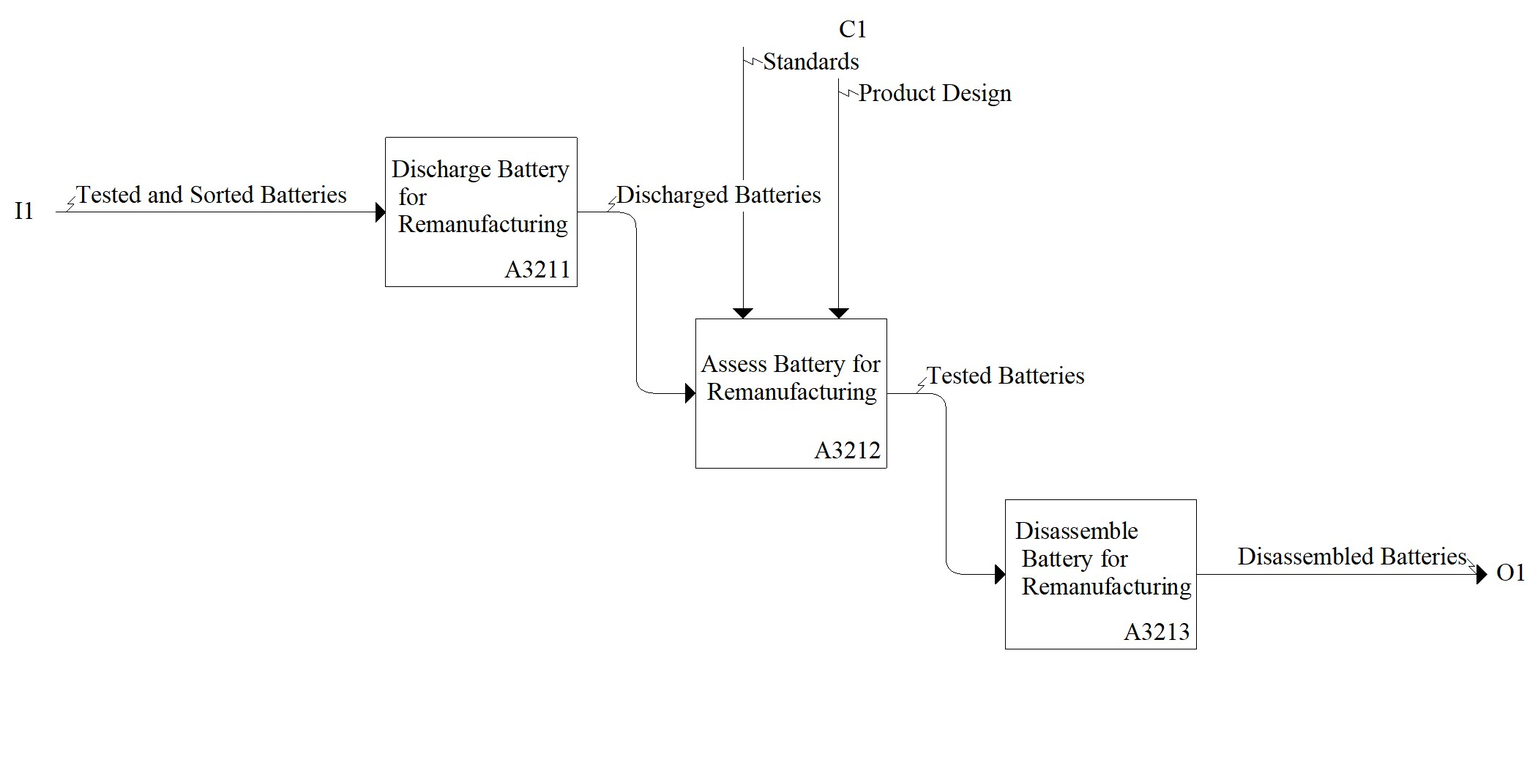
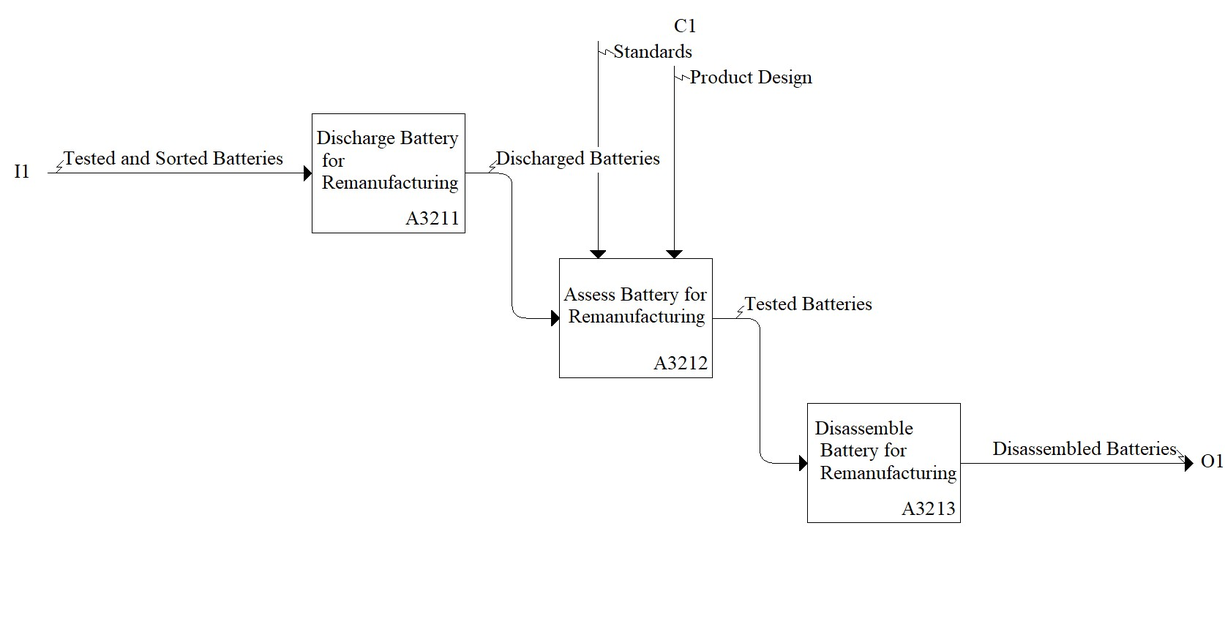
Image update

diff --git a/evb/evb/dgmA323COLON_Install_Battery718.html b/evb/evb/dgmA323COLON_Install_Battery718.html
@@ -23,21 +23,21 @@ layout: default
  <img alt="" border="0" src="images/dgm718.jpeg" usemap="#sitemap"/>
 </div>
 <map name="sitemap">
- <area alt="Click Activity Box for Description" coords="448, 224, 657, 387" href="actuseJoin%5Fto%5FFrame738.html" shape="rect"/>
- <area alt="Click Shadow for Decomp Diagram " coords="657, 231, 668, 394" href="dgmTreat%5FEV%5FBatteries%5Fat%5FEnd%2Dof%2DLife23.html" shape="rect"/>
- <area alt="Click Shadow for Decomp Diagram " coords="455, 387, 664, 398" href="dgmTreat%5FEV%5FBatteries%5Fat%5FEnd%2Dof%2DLife23.html" shape="rect"/>
- <area alt="Click Activity Box for Description" coords="814, 429, 1024, 599" href="actuseConnect%5Fto%5FSoftware%5FInterface742.html" shape="rect"/>
- <area alt="Click Shadow for Decomp Diagram " coords="1024, 436, 1035, 606" href="dgmTreat%5FEV%5FBatteries%5Fat%5FEnd%2Dof%2DLife23.html" shape="rect"/>
- <area alt="Click Shadow for Decomp Diagram " coords="821, 599, 1031, 610" href="dgmTreat%5FEV%5FBatteries%5Fat%5FEnd%2Dof%2DLife23.html" shape="rect"/>
- <area alt="Click Activity Box for Description" coords="1181, 641, 1413, 821" href="actuseRecondition%5FBattery%5FDuring%5FInstallation746.html" shape="rect"/>
- <area alt="Click Shadow for Decomp Diagram " coords="1413, 648, 1424, 828" href="dgmTreat%5FEV%5FBatteries%5Fat%5FEnd%2Dof%2DLife23.html" shape="rect"/>
- <area alt="Click Shadow for Decomp Diagram " coords="1188, 821, 1420, 832" href="dgmTreat%5FEV%5FBatteries%5Fat%5FEnd%2Dof%2DLife23.html" shape="rect"/>
- <area alt="Click Activity Box for Description" coords="1570, 863, 1798, 1041" href="actuseReconfigure%5FBattery%5Ffor%5FEV%5FApplication750.html" shape="rect"/>
- <area alt="Click Shadow for Decomp Diagram " coords="1798, 870, 1809, 1048" href="dgmTreat%5FEV%5FBatteries%5Fat%5FEnd%2Dof%2DLife23.html" shape="rect"/>
- <area alt="Click Shadow for Decomp Diagram " coords="1577, 1041, 1805, 1052" href="dgmTreat%5FEV%5FBatteries%5Fat%5FEnd%2Dof%2DLife23.html" shape="rect"/>
- <area alt="Click Activity Box for Description" coords="1955, 1083, 2197, 1272" href="actuseTestSLASHCertify%5FRemanufactured%5FBattery754.html" shape="rect"/>
- <area alt="Click Shadow for Decomp Diagram " coords="2197, 1090, 2208, 1279" href="dgmTreat%5FEV%5FBatteries%5Fat%5FEnd%2Dof%2DLife23.html" shape="rect"/>
- <area alt="Click Shadow for Decomp Diagram " coords="1962, 1272, 2204, 1283" href="dgmTreat%5FEV%5FBatteries%5Fat%5FEnd%2Dof%2DLife23.html" shape="rect"/>
+ <area alt="Click Activity Box for Description" coords="374, 190, 547, 325" href="actuseJoin%5Fto%5FFrame738.html" shape="rect"/>
+ <area alt="Click Shadow for Decomp Diagram " coords="547, 197, 558, 332" href="dgmTreat%5FEV%5FBatteries%5Fat%5FEnd%2Dof%2DLife23.html" shape="rect"/>
+ <area alt="Click Shadow for Decomp Diagram " coords="381, 325, 554, 336" href="dgmTreat%5FEV%5FBatteries%5Fat%5FEnd%2Dof%2DLife23.html" shape="rect"/>
+ <area alt="Click Activity Box for Description" coords="677, 360, 850, 500" href="actuseConnect%5Fto%5FSoftware%5FInterface742.html" shape="rect"/>
+ <area alt="Click Shadow for Decomp Diagram " coords="850, 367, 861, 507" href="dgmTreat%5FEV%5FBatteries%5Fat%5FEnd%2Dof%2DLife23.html" shape="rect"/>
+ <area alt="Click Shadow for Decomp Diagram " coords="684, 500, 857, 511" href="dgmTreat%5FEV%5FBatteries%5Fat%5FEnd%2Dof%2DLife23.html" shape="rect"/>
+ <area alt="Click Activity Box for Description" coords="979, 535, 1171, 685" href="actuseRecondition%5FBattery%5FDuring%5FInstallation746.html" shape="rect"/>
+ <area alt="Click Shadow for Decomp Diagram " coords="1171, 542, 1182, 692" href="dgmTreat%5FEV%5FBatteries%5Fat%5FEnd%2Dof%2DLife23.html" shape="rect"/>
+ <area alt="Click Shadow for Decomp Diagram " coords="986, 685, 1178, 696" href="dgmTreat%5FEV%5FBatteries%5Fat%5FEnd%2Dof%2DLife23.html" shape="rect"/>
+ <area alt="Click Activity Box for Description" coords="1300, 720, 1489, 867" href="actuseReconfigure%5FBattery%5Ffor%5FEV%5FApplication750.html" shape="rect"/>
+ <area alt="Click Shadow for Decomp Diagram " coords="1489, 727, 1500, 874" href="dgmTreat%5FEV%5FBatteries%5Fat%5FEnd%2Dof%2DLife23.html" shape="rect"/>
+ <area alt="Click Shadow for Decomp Diagram " coords="1307, 867, 1496, 878" href="dgmTreat%5FEV%5FBatteries%5Fat%5FEnd%2Dof%2DLife23.html" shape="rect"/>
+ <area alt="Click Activity Box for Description" coords="1618, 902, 1818, 1058" href="actuseTestSLASHCertify%5FRemanufactured%5FBattery754.html" shape="rect"/>
+ <area alt="Click Shadow for Decomp Diagram " coords="1818, 909, 1829, 1065" href="dgmTreat%5FEV%5FBatteries%5Fat%5FEnd%2Dof%2DLife23.html" shape="rect"/>
+ <area alt="Click Shadow for Decomp Diagram " coords="1625, 1058, 1825, 1069" href="dgmTreat%5FEV%5FBatteries%5Fat%5FEnd%2Dof%2DLife23.html" shape="rect"/>
 </map>
 <br/>
 <p class="description-info" id="description">

diff --git a/evb/evb/dgmA3313COLON_MechanicallySLASHChemically_Pretreat_Material1016.html b/evb/evb/dgmA3313COLON_MechanicallySLASHChemically_Pretreat_Material1016.html
@@ -23,21 +23,21 @@ layout: default
  <img alt="" border="0" src="images/dgm1016.jpeg" usemap="#sitemap"/>
 </div>
 <map name="sitemap">
- <area alt="Click Activity Box for Description" coords="547, 230, 786, 537" href="actuseShred1048.html" shape="rect"/>
- <area alt="Click Shadow for Decomp Diagram " coords="786, 237, 797, 544" href="dgmTreat%5FEV%5FBatteries%5Fat%5FEnd%2Dof%2DLife23.html" shape="rect"/>
- <area alt="Click Shadow for Decomp Diagram " coords="554, 537, 793, 548" href="dgmTreat%5FEV%5FBatteries%5Fat%5FEnd%2Dof%2DLife23.html" shape="rect"/>
- <area alt="Click Activity Box for Description" coords="948, 580, 1164, 749" href="actuseCalcine1052.html" shape="rect"/>
- <area alt="Click Shadow for Decomp Diagram " coords="1164, 587, 1175, 756" href="dgmTreat%5FEV%5FBatteries%5Fat%5FEnd%2Dof%2DLife23.html" shape="rect"/>
- <area alt="Click Shadow for Decomp Diagram " coords="955, 749, 1171, 760" href="dgmTreat%5FEV%5FBatteries%5Fat%5FEnd%2Dof%2DLife23.html" shape="rect"/>
- <area alt="Click Activity Box for Description" coords="1326, 793, 1542, 961" href="actuseCrushSLASHSize%5FReduce1057.html" shape="rect"/>
- <area alt="Click Shadow for Decomp Diagram " coords="1542, 800, 1553, 968" href="dgmTreat%5FEV%5FBatteries%5Fat%5FEnd%2Dof%2DLife23.html" shape="rect"/>
- <area alt="Click Shadow for Decomp Diagram " coords="1333, 961, 1549, 972" href="dgmTreat%5FEV%5FBatteries%5Fat%5FEnd%2Dof%2DLife23.html" shape="rect"/>
- <area alt="Click Activity Box for Description" coords="1704, 1005, 1920, 1173" href="actuseSeparate1061.html" shape="rect"/>
- <area alt="Click Shadow for Decomp Diagram " coords="1920, 1012, 1931, 1180" href="dgmTreat%5FEV%5FBatteries%5Fat%5FEnd%2Dof%2DLife23.html" shape="rect"/>
- <area alt="Click Shadow for Decomp Diagram " coords="1711, 1173, 1927, 1184" href="dgmTreat%5FEV%5FBatteries%5Fat%5FEnd%2Dof%2DLife23.html" shape="rect"/>
- <area alt="Click Activity Box for Description" coords="2082, 1217, 2298, 1392" href="actuseTreat%5FGas%5Ffor%5FMechanical%5FPretreat1065.html" shape="rect"/>
- <area alt="Click Shadow for Decomp Diagram " coords="2298, 1224, 2309, 1399" href="dgmTreat%5FEV%5FBatteries%5Fat%5FEnd%2Dof%2DLife23.html" shape="rect"/>
- <area alt="Click Shadow for Decomp Diagram " coords="2089, 1392, 2305, 1403" href="dgmTreat%5FEV%5FBatteries%5Fat%5FEnd%2Dof%2DLife23.html" shape="rect"/>
+ <area alt="Click Activity Box for Description" coords="442, 189, 634, 437" href="actuseShred1048.html" shape="rect"/>
+ <area alt="Click Shadow for Decomp Diagram " coords="634, 196, 645, 444" href="dgmTreat%5FEV%5FBatteries%5Fat%5FEnd%2Dof%2DLife23.html" shape="rect"/>
+ <area alt="Click Shadow for Decomp Diagram " coords="449, 437, 641, 448" href="dgmTreat%5FEV%5FBatteries%5Fat%5FEnd%2Dof%2DLife23.html" shape="rect"/>
+ <area alt="Click Activity Box for Description" coords="764, 471, 936, 606" href="actuseCalcine1052.html" shape="rect"/>
+ <area alt="Click Shadow for Decomp Diagram " coords="936, 478, 947, 613" href="dgmTreat%5FEV%5FBatteries%5Fat%5FEnd%2Dof%2DLife23.html" shape="rect"/>
+ <area alt="Click Shadow for Decomp Diagram " coords="771, 606, 943, 617" href="dgmTreat%5FEV%5FBatteries%5Fat%5FEnd%2Dof%2DLife23.html" shape="rect"/>
+ <area alt="Click Activity Box for Description" coords="1066, 641, 1239, 776" href="actuseCrushSLASHSize%5FReduce1057.html" shape="rect"/>
+ <area alt="Click Shadow for Decomp Diagram " coords="1239, 648, 1250, 783" href="dgmTreat%5FEV%5FBatteries%5Fat%5FEnd%2Dof%2DLife23.html" shape="rect"/>
+ <area alt="Click Shadow for Decomp Diagram " coords="1073, 776, 1246, 787" href="dgmTreat%5FEV%5FBatteries%5Fat%5FEnd%2Dof%2DLife23.html" shape="rect"/>
+ <area alt="Click Activity Box for Description" coords="1368, 811, 1541, 946" href="actuseSeparate1061.html" shape="rect"/>
+ <area alt="Click Shadow for Decomp Diagram " coords="1541, 818, 1552, 953" href="dgmTreat%5FEV%5FBatteries%5Fat%5FEnd%2Dof%2DLife23.html" shape="rect"/>
+ <area alt="Click Shadow for Decomp Diagram " coords="1375, 946, 1548, 957" href="dgmTreat%5FEV%5FBatteries%5Fat%5FEnd%2Dof%2DLife23.html" shape="rect"/>
+ <area alt="Click Activity Box for Description" coords="1671, 981, 1844, 1122" href="actuseTreat%5FGas%5Ffor%5FMechanical%5FPretreat1065.html" shape="rect"/>
+ <area alt="Click Shadow for Decomp Diagram " coords="1844, 988, 1855, 1129" href="dgmTreat%5FEV%5FBatteries%5Fat%5FEnd%2Dof%2DLife23.html" shape="rect"/>
+ <area alt="Click Shadow for Decomp Diagram " coords="1678, 1122, 1851, 1133" href="dgmTreat%5FEV%5FBatteries%5Fat%5FEnd%2Dof%2DLife23.html" shape="rect"/>
 </map>
 <br/>
 <p class="description-info" id="description">

diff --git a/evb/evb/dgmA313COLON_Repair_Battery1309.html b/evb/evb/dgmA313COLON_Repair_Battery1309.html
@@ -23,18 +23,18 @@ layout: default
  <img alt="" border="0" src="images/dgm1309.jpeg" usemap="#sitemap"/>
 </div>
 <map name="sitemap">
- <area alt="Click Activity Box for Description" coords="585, 230, 801, 406" href="actuseDisassemble%5FBattery%5Ffor%5FRepurposing1311.html" shape="rect"/>
- <area alt="Click Shadow for Decomp Diagram " coords="801, 237, 812, 413" href="dgmTreat%5FEV%5FBatteries%5Fat%5FEnd%2Dof%2DLife23.html" shape="rect"/>
- <area alt="Click Shadow for Decomp Diagram " coords="592, 406, 808, 417" href="dgmTreat%5FEV%5FBatteries%5Fat%5FEnd%2Dof%2DLife23.html" shape="rect"/>
- <area alt="Click Activity Box for Description" coords="963, 449, 1209, 700" href="actuseReplace%5For%5FRepair%5FDamaged%5FComponents%5Ffor%5FRepurposing1315.html" shape="rect"/>
- <area alt="Click Shadow for Decomp Diagram " coords="1209, 456, 1220, 707" href="dgmTreat%5FEV%5FBatteries%5Fat%5FEnd%2Dof%2DLife23.html" shape="rect"/>
- <area alt="Click Shadow for Decomp Diagram " coords="970, 700, 1216, 711" href="dgmTreat%5FEV%5FBatteries%5Fat%5FEnd%2Dof%2DLife23.html" shape="rect"/>
- <area alt="Click Activity Box for Description" coords="1371, 743, 1587, 918" href="actuseRecondition%5FBattery%5Ffor%5FRepurposing1319.html" shape="rect"/>
- <area alt="Click Shadow for Decomp Diagram " coords="1587, 750, 1598, 925" href="dgmTreat%5FEV%5FBatteries%5Fat%5FEnd%2Dof%2DLife23.html" shape="rect"/>
- <area alt="Click Shadow for Decomp Diagram " coords="1378, 918, 1594, 929" href="dgmTreat%5FEV%5FBatteries%5Fat%5FEnd%2Dof%2DLife23.html" shape="rect"/>
- <area alt="Click Activity Box for Description" coords="1749, 961, 1965, 1137" href="actuseReassemble%5FBattery%5Ffor%5FRepurposing1323.html" shape="rect"/>
- <area alt="Click Shadow for Decomp Diagram " coords="1965, 968, 1976, 1144" href="dgmTreat%5FEV%5FBatteries%5Fat%5FEnd%2Dof%2DLife23.html" shape="rect"/>
- <area alt="Click Shadow for Decomp Diagram " coords="1756, 1137, 1972, 1148" href="dgmTreat%5FEV%5FBatteries%5Fat%5FEnd%2Dof%2DLife23.html" shape="rect"/>
+ <area alt="Click Activity Box for Description" coords="473, 189, 646, 330" href="actuseDisassemble%5FBattery%5Ffor%5FRepurposing1311.html" shape="rect"/>
+ <area alt="Click Shadow for Decomp Diagram " coords="646, 196, 657, 337" href="dgmTreat%5FEV%5FBatteries%5Fat%5FEnd%2Dof%2DLife23.html" shape="rect"/>
+ <area alt="Click Shadow for Decomp Diagram " coords="480, 330, 653, 341" href="dgmTreat%5FEV%5FBatteries%5Fat%5FEnd%2Dof%2DLife23.html" shape="rect"/>
+ <area alt="Click Activity Box for Description" coords="776, 365, 972, 567" href="actuseReplace%5For%5FRepair%5FDamaged%5FComponents%5Ffor%5FRepurposing1315.html" shape="rect"/>
+ <area alt="Click Shadow for Decomp Diagram " coords="972, 372, 983, 574" href="dgmTreat%5FEV%5FBatteries%5Fat%5FEnd%2Dof%2DLife23.html" shape="rect"/>
+ <area alt="Click Shadow for Decomp Diagram " coords="783, 567, 979, 578" href="dgmTreat%5FEV%5FBatteries%5Fat%5FEnd%2Dof%2DLife23.html" shape="rect"/>
+ <area alt="Click Activity Box for Description" coords="1101, 602, 1274, 742" href="actuseRecondition%5FBattery%5Ffor%5FRepurposing1319.html" shape="rect"/>
+ <area alt="Click Shadow for Decomp Diagram " coords="1274, 609, 1285, 749" href="dgmTreat%5FEV%5FBatteries%5Fat%5FEnd%2Dof%2DLife23.html" shape="rect"/>
+ <area alt="Click Shadow for Decomp Diagram " coords="1108, 742, 1281, 753" href="dgmTreat%5FEV%5FBatteries%5Fat%5FEnd%2Dof%2DLife23.html" shape="rect"/>
+ <area alt="Click Activity Box for Description" coords="1404, 777, 1577, 918" href="actuseReassemble%5FBattery%5Ffor%5FRepurposing1323.html" shape="rect"/>
+ <area alt="Click Shadow for Decomp Diagram " coords="1577, 784, 1588, 925" href="dgmTreat%5FEV%5FBatteries%5Fat%5FEnd%2Dof%2DLife23.html" shape="rect"/>
+ <area alt="Click Shadow for Decomp Diagram " coords="1411, 918, 1584, 929" href="dgmTreat%5FEV%5FBatteries%5Fat%5FEnd%2Dof%2DLife23.html" shape="rect"/>
 </map>
 <br/>
 <p class="description-info" id="description">

diff --git a/evb/evb/dgmA322COLON_Remanufacture_Battery265.html b/evb/evb/dgmA322COLON_Remanufacture_Battery265.html
@@ -23,18 +23,18 @@ layout: default
  <img alt="" border="0" src="images/dgm265.jpeg" usemap="#sitemap"/>
 </div>
 <map name="sitemap">
- <area alt="Click Activity Box for Description" coords="749, 230, 1010, 444" href="actuseReplace%5For%5FRepair%5FDamaged%5FComponents%5Ffor%5FRemanufacturing282.html" shape="rect"/>
- <area alt="Click Shadow for Decomp Diagram " coords="1010, 237, 1021, 451" href="dgmTreat%5FEV%5FBatteries%5Fat%5FEnd%2Dof%2DLife23.html" shape="rect"/>
- <area alt="Click Shadow for Decomp Diagram " coords="756, 444, 1017, 455" href="dgmTreat%5FEV%5FBatteries%5Fat%5FEnd%2Dof%2DLife23.html" shape="rect"/>
- <area alt="Click Activity Box for Description" coords="1172, 487, 1433, 691" href="actuseRecondition%5FBattery%5Ffor%5FRemanufacturing286.html" shape="rect"/>
- <area alt="Click Shadow for Decomp Diagram " coords="1433, 494, 1444, 698" href="dgmTreat%5FEV%5FBatteries%5Fat%5FEnd%2Dof%2DLife23.html" shape="rect"/>
- <area alt="Click Shadow for Decomp Diagram " coords="1179, 691, 1440, 702" href="dgmTreat%5FEV%5FBatteries%5Fat%5FEnd%2Dof%2DLife23.html" shape="rect"/>
- <area alt="Click Activity Box for Description" coords="1595, 734, 1811, 903" href="actuseTest%5Ffor%5FFunctionality705.html" shape="rect"/>
- <area alt="Click Shadow for Decomp Diagram " coords="1811, 741, 1822, 910" href="dgmTreat%5FEV%5FBatteries%5Fat%5FEnd%2Dof%2DLife23.html" shape="rect"/>
- <area alt="Click Shadow for Decomp Diagram " coords="1602, 903, 1818, 914" href="dgmTreat%5FEV%5FBatteries%5Fat%5FEnd%2Dof%2DLife23.html" shape="rect"/>
- <area alt="Click Activity Box for Description" coords="2027, 990, 2261, 1173" href="actuseReassemble%5FBattery%5FSystem715.html" shape="rect"/>
- <area alt="Click Shadow for Decomp Diagram " coords="2261, 997, 2272, 1180" href="dgmTreat%5FEV%5FBatteries%5Fat%5FEnd%2Dof%2DLife23.html" shape="rect"/>
- <area alt="Click Shadow for Decomp Diagram " coords="2034, 1173, 2268, 1184" href="dgmTreat%5FEV%5FBatteries%5Fat%5FEnd%2Dof%2DLife23.html" shape="rect"/>
+ <area alt="Click Activity Box for Description" coords="604, 189, 813, 361" href="actuseReplace%5For%5FRepair%5FDamaged%5FComponents%5Ffor%5FRemanufacturing282.html" shape="rect"/>
+ <area alt="Click Shadow for Decomp Diagram " coords="813, 196, 824, 368" href="dgmTreat%5FEV%5FBatteries%5Fat%5FEnd%2Dof%2DLife23.html" shape="rect"/>
+ <area alt="Click Shadow for Decomp Diagram " coords="611, 361, 820, 372" href="dgmTreat%5FEV%5FBatteries%5Fat%5FEnd%2Dof%2DLife23.html" shape="rect"/>
+ <area alt="Click Activity Box for Description" coords="942, 396, 1151, 559" href="actuseRecondition%5FBattery%5Ffor%5FRemanufacturing286.html" shape="rect"/>
+ <area alt="Click Shadow for Decomp Diagram " coords="1151, 403, 1162, 566" href="dgmTreat%5FEV%5FBatteries%5Fat%5FEnd%2Dof%2DLife23.html" shape="rect"/>
+ <area alt="Click Shadow for Decomp Diagram " coords="949, 559, 1158, 570" href="dgmTreat%5FEV%5FBatteries%5Fat%5FEnd%2Dof%2DLife23.html" shape="rect"/>
+ <area alt="Click Activity Box for Description" coords="1281, 594, 1454, 729" href="actuseTest%5Ffor%5FFunctionality705.html" shape="rect"/>
+ <area alt="Click Shadow for Decomp Diagram " coords="1454, 601, 1465, 736" href="dgmTreat%5FEV%5FBatteries%5Fat%5FEnd%2Dof%2DLife23.html" shape="rect"/>
+ <area alt="Click Shadow for Decomp Diagram " coords="1288, 729, 1461, 740" href="dgmTreat%5FEV%5FBatteries%5Fat%5FEnd%2Dof%2DLife23.html" shape="rect"/>
+ <area alt="Click Activity Box for Description" coords="1627, 799, 1814, 945" href="actuseReassemble%5FBattery%5FSystem715.html" shape="rect"/>
+ <area alt="Click Shadow for Decomp Diagram " coords="1814, 806, 1825, 952" href="dgmTreat%5FEV%5FBatteries%5Fat%5FEnd%2Dof%2DLife23.html" shape="rect"/>
+ <area alt="Click Shadow for Decomp Diagram " coords="1634, 945, 1821, 956" href="dgmTreat%5FEV%5FBatteries%5Fat%5FEnd%2Dof%2DLife23.html" shape="rect"/>
 </map>
 <br/>
 <p class="description-info" id="description">

diff --git a/evb/evb/dgmA331COLON_Pretreat_Battery944.html b/evb/evb/dgmA331COLON_Pretreat_Battery944.html
@@ -23,15 +23,15 @@ layout: default
  <img alt="" border="0" src="images/dgm944.jpeg" usemap="#sitemap"/>
 </div>
 <map name="sitemap">
- <area alt="Click Activity Box for Description" coords="688, 187, 904, 362" href="actuseDischarge%5FBattery%5Ffor%5FRecycling980.html" shape="rect"/>
- <area alt="Click Shadow for Decomp Diagram " coords="904, 194, 915, 369" href="dgmTreat%5FEV%5FBatteries%5Fat%5FEnd%2Dof%2DLife23.html" shape="rect"/>
- <area alt="Click Shadow for Decomp Diagram " coords="695, 362, 911, 373" href="dgmTreat%5FEV%5FBatteries%5Fat%5FEnd%2Dof%2DLife23.html" shape="rect"/>
- <area alt="Click Activity Box for Description" coords="1066, 405, 1282, 580" href="actuseDisassemble%5FBattery%5Ffor%5FRecycling984.html" shape="rect"/>
- <area alt="Click Shadow for Decomp Diagram " coords="1282, 412, 1293, 587" href="dgmTreat%5FEV%5FBatteries%5Fat%5FEnd%2Dof%2DLife23.html" shape="rect"/>
- <area alt="Click Shadow for Decomp Diagram " coords="1073, 580, 1289, 591" href="dgmTreat%5FEV%5FBatteries%5Fat%5FEnd%2Dof%2DLife23.html" shape="rect"/>
- <area alt="Click Activity Box for Description" coords="1498, 624, 1873, 930" href="actuseMechanicallySLASHChemically%5FPretreat%5FMaterial1000.html" shape="rect"/>
- <area alt="Click Shadow for Decomp Diagram " coords="1873, 631, 1884, 937" href="dgmA3313COLON%5FMechanicallySLASHChemically%5FPretreat%5FMaterial1016.html" shape="rect"/>
- <area alt="Click Shadow for Decomp Diagram " coords="1505, 930, 1880, 941" href="dgmA3313COLON%5FMechanicallySLASHChemically%5FPretreat%5FMaterial1016.html" shape="rect"/>
+ <area alt="Click Activity Box for Description" coords="555, 154, 728, 296" href="actuseDischarge%5FBattery%5Ffor%5FRecycling980.html" shape="rect"/>
+ <area alt="Click Shadow for Decomp Diagram " coords="728, 161, 739, 303" href="dgmTreat%5FEV%5FBatteries%5Fat%5FEnd%2Dof%2DLife23.html" shape="rect"/>
+ <area alt="Click Shadow for Decomp Diagram " coords="562, 296, 735, 307" href="dgmTreat%5FEV%5FBatteries%5Fat%5FEnd%2Dof%2DLife23.html" shape="rect"/>
+ <area alt="Click Activity Box for Description" coords="857, 330, 1030, 472" href="actuseDisassemble%5FBattery%5Ffor%5FRecycling984.html" shape="rect"/>
+ <area alt="Click Shadow for Decomp Diagram " coords="1030, 337, 1041, 479" href="dgmTreat%5FEV%5FBatteries%5Fat%5FEnd%2Dof%2DLife23.html" shape="rect"/>
+ <area alt="Click Shadow for Decomp Diagram " coords="864, 472, 1037, 483" href="dgmTreat%5FEV%5FBatteries%5Fat%5FEnd%2Dof%2DLife23.html" shape="rect"/>
+ <area alt="Click Activity Box for Description" coords="1203, 507, 1504, 754" href="actuseMechanicallySLASHChemically%5FPretreat%5FMaterial1000.html" shape="rect"/>
+ <area alt="Click Shadow for Decomp Diagram " coords="1504, 514, 1515, 761" href="dgmA3313COLON%5FMechanicallySLASHChemically%5FPretreat%5FMaterial1016.html" shape="rect"/>
+ <area alt="Click Shadow for Decomp Diagram " coords="1210, 754, 1511, 765" href="dgmA3313COLON%5FMechanicallySLASHChemically%5FPretreat%5FMaterial1016.html" shape="rect"/>
 </map>
 <br/>
 <p class="description-info" id="description">

diff --git a/evb/evb/dgmA321COLON_Prepare_Battery_for_Remanufacturing243.html b/evb/evb/dgmA321COLON_Prepare_Battery_for_Remanufacturing243.html
@@ -23,15 +23,15 @@ layout: default
  <img alt="" border="0" src="images/dgm243.jpeg" usemap="#sitemap"/>
 </div>
 <map name="sitemap">
- <area alt="Click Activity Box for Description" coords="526, 187, 787, 391" href="actuseDischarge%5FBattery%5Ffor%5FRemanufacturing250.html" shape="rect"/>
- <area alt="Click Shadow for Decomp Diagram " coords="787, 194, 798, 398" href="dgmTreat%5FEV%5FBatteries%5Fat%5FEnd%2Dof%2DLife23.html" shape="rect"/>
- <area alt="Click Shadow for Decomp Diagram " coords="533, 391, 794, 402" href="dgmTreat%5FEV%5FBatteries%5Fat%5FEnd%2Dof%2DLife23.html" shape="rect"/>
- <area alt="Click Activity Box for Description" coords="949, 434, 1210, 638" href="actuseAssess%5FBattery%5Ffor%5FRemanufacturing254.html" shape="rect"/>
- <area alt="Click Shadow for Decomp Diagram " coords="1210, 441, 1221, 645" href="dgmTreat%5FEV%5FBatteries%5Fat%5FEnd%2Dof%2DLife23.html" shape="rect"/>
- <area alt="Click Shadow for Decomp Diagram " coords="956, 638, 1217, 649" href="dgmTreat%5FEV%5FBatteries%5Fat%5FEnd%2Dof%2DLife23.html" shape="rect"/>
- <area alt="Click Activity Box for Description" coords="1372, 681, 1634, 886" href="actuseDisassemble%5FBattery%5Ffor%5FRemanufacturing258.html" shape="rect"/>
- <area alt="Click Shadow for Decomp Diagram " coords="1634, 688, 1645, 893" href="dgmTreat%5FEV%5FBatteries%5Fat%5FEnd%2Dof%2DLife23.html" shape="rect"/>
- <area alt="Click Shadow for Decomp Diagram " coords="1379, 886, 1641, 897" href="dgmTreat%5FEV%5FBatteries%5Fat%5FEnd%2Dof%2DLife23.html" shape="rect"/>
+ <area alt="Click Activity Box for Description" coords="425, 154, 634, 318" href="actuseDischarge%5FBattery%5Ffor%5FRemanufacturing250.html" shape="rect"/>
+ <area alt="Click Shadow for Decomp Diagram " coords="634, 161, 645, 325" href="dgmTreat%5FEV%5FBatteries%5Fat%5FEnd%2Dof%2DLife23.html" shape="rect"/>
+ <area alt="Click Shadow for Decomp Diagram " coords="432, 318, 641, 329" href="dgmTreat%5FEV%5FBatteries%5Fat%5FEnd%2Dof%2DLife23.html" shape="rect"/>
+ <area alt="Click Activity Box for Description" coords="764, 352, 973, 516" href="actuseAssess%5FBattery%5Ffor%5FRemanufacturing254.html" shape="rect"/>
+ <area alt="Click Shadow for Decomp Diagram " coords="973, 359, 984, 523" href="dgmTreat%5FEV%5FBatteries%5Fat%5FEnd%2Dof%2DLife23.html" shape="rect"/>
+ <area alt="Click Shadow for Decomp Diagram " coords="771, 516, 980, 527" href="dgmTreat%5FEV%5FBatteries%5Fat%5FEnd%2Dof%2DLife23.html" shape="rect"/>
+ <area alt="Click Activity Box for Description" coords="1102, 551, 1311, 714" href="actuseDisassemble%5FBattery%5Ffor%5FRemanufacturing258.html" shape="rect"/>
+ <area alt="Click Shadow for Decomp Diagram " coords="1311, 558, 1322, 721" href="dgmTreat%5FEV%5FBatteries%5Fat%5FEnd%2Dof%2DLife23.html" shape="rect"/>
+ <area alt="Click Shadow for Decomp Diagram " coords="1109, 714, 1318, 725" href="dgmTreat%5FEV%5FBatteries%5Fat%5FEnd%2Dof%2DLife23.html" shape="rect"/>
 </map>
 <br/>
 <p class="description-info" id="description">

diff --git a/evb/evb/dgmA0COLON_Treat_Batteries_at_End-of-Life68.html b/evb/evb/dgmA0COLON_Treat_Batteries_at_End-of-Life68.html
@@ -23,15 +23,15 @@ layout: default
  <img alt="" border="0" src="images/dgm68.jpeg" usemap="#sitemap"/>
 </div>
 <map name="sitemap">
- <area alt="Click Activity Box for Description" coords="667, 449, 1008, 715" href="actuseCollect%5FEnd%2Dof%2DLife%5FBatteriesSLASHScrap89.html" shape="rect"/>
- <area alt="Click Shadow for Decomp Diagram " coords="1008, 456, 1019, 722" href="dgmTreat%5FEV%5FBatteries%5Fat%5FEnd%2Dof%2DLife23.html" shape="rect"/>
- <area alt="Click Shadow for Decomp Diagram " coords="674, 715, 1015, 726" href="dgmTreat%5FEV%5FBatteries%5Fat%5FEnd%2Dof%2DLife23.html" shape="rect"/>
- <area alt="Click Activity Box for Description" coords="1154, 754, 1397, 944" href="actuseTest%5Fand%5FSort%5FBatteries93.html" shape="rect"/>
- <area alt="Click Shadow for Decomp Diagram " coords="1397, 761, 1408, 951" href="dgmTreat%5FEV%5FBatteries%5Fat%5FEnd%2Dof%2DLife23.html" shape="rect"/>
- <area alt="Click Shadow for Decomp Diagram " coords="1161, 944, 1404, 955" href="dgmTreat%5FEV%5FBatteries%5Fat%5FEnd%2Dof%2DLife23.html" shape="rect"/>
- <area alt="Click Activity Box for Description" coords="1542, 983, 2007, 1580" href="actuseRecover%5FMaterialsSLASHDevices98.html" shape="rect"/>
- <area alt="Click Shadow for Decomp Diagram " coords="2007, 990, 2018, 1587" href="dgmA3COLON%5FRecover%5FMaterialsSLASHDevices144.html" shape="rect"/>
- <area alt="Click Shadow for Decomp Diagram " coords="1549, 1580, 2014, 1591" href="dgmA3COLON%5FRecover%5FMaterialsSLASHDevices144.html" shape="rect"/>
+ <area alt="Click Activity Box for Description" coords="595, 401, 898, 637" href="actuseCollect%5FEnd%2Dof%2DLife%5FBatteriesSLASHScrap89.html" shape="rect"/>
+ <area alt="Click Shadow for Decomp Diagram " coords="898, 408, 909, 644" href="dgmTreat%5FEV%5FBatteries%5Fat%5FEnd%2Dof%2DLife23.html" shape="rect"/>
+ <area alt="Click Shadow for Decomp Diagram " coords="602, 637, 905, 648" href="dgmTreat%5FEV%5FBatteries%5Fat%5FEnd%2Dof%2DLife23.html" shape="rect"/>
+ <area alt="Click Activity Box for Description" coords="1027, 672, 1243, 841" href="actuseTest%5Fand%5FSort%5FBatteries93.html" shape="rect"/>
+ <area alt="Click Shadow for Decomp Diagram " coords="1243, 679, 1254, 848" href="dgmTreat%5FEV%5FBatteries%5Fat%5FEnd%2Dof%2DLife23.html" shape="rect"/>
+ <area alt="Click Shadow for Decomp Diagram " coords="1034, 841, 1250, 852" href="dgmTreat%5FEV%5FBatteries%5Fat%5FEnd%2Dof%2DLife23.html" shape="rect"/>
+ <area alt="Click Activity Box for Description" coords="1373, 876, 1785, 1405" href="actuseRecover%5FMaterialsSLASHDevices98.html" shape="rect"/>
+ <area alt="Click Shadow for Decomp Diagram " coords="1785, 883, 1796, 1412" href="dgmA3COLON%5FRecover%5FMaterialsSLASHDevices144.html" shape="rect"/>
+ <area alt="Click Shadow for Decomp Diagram " coords="1380, 1405, 1792, 1416" href="dgmA3COLON%5FRecover%5FMaterialsSLASHDevices144.html" shape="rect"/>
 </map>
 <br/>
 <p class="description-info" id="description">

diff --git a/evb/evb/dgmA314COLON_Check_Battery_Management_System1342.html b/evb/evb/dgmA314COLON_Check_Battery_Management_System1342.html
@@ -23,15 +23,15 @@ layout: default
  <img alt="" border="0" src="images/dgm1342.jpeg" usemap="#sitemap"/>
 </div>
 <map name="sitemap">
- <area alt="Click Activity Box for Description" coords="585, 318, 801, 487" href="actuseTest%5FThermal%5FBehavior1345.html" shape="rect"/>
- <area alt="Click Shadow for Decomp Diagram " coords="801, 325, 812, 494" href="dgmTreat%5FEV%5FBatteries%5Fat%5FEnd%2Dof%2DLife23.html" shape="rect"/>
- <area alt="Click Shadow for Decomp Diagram " coords="592, 487, 808, 498" href="dgmTreat%5FEV%5FBatteries%5Fat%5FEnd%2Dof%2DLife23.html" shape="rect"/>
- <area alt="Click Activity Box for Description" coords="963, 530, 1179, 705" href="actuseTest%5FBattery%5FManagement%5FSystem1353.html" shape="rect"/>
- <area alt="Click Shadow for Decomp Diagram " coords="1179, 537, 1190, 712" href="dgmTreat%5FEV%5FBatteries%5Fat%5FEnd%2Dof%2DLife23.html" shape="rect"/>
- <area alt="Click Shadow for Decomp Diagram " coords="970, 705, 1186, 716" href="dgmTreat%5FEV%5FBatteries%5Fat%5FEnd%2Dof%2DLife23.html" shape="rect"/>
- <area alt="Click Activity Box for Description" coords="1341, 748, 1581, 936" href="actuseEvaluate%5FSafety%5Fand%5FCompliance1360.html" shape="rect"/>
- <area alt="Click Shadow for Decomp Diagram " coords="1581, 755, 1592, 943" href="dgmTreat%5FEV%5FBatteries%5Fat%5FEnd%2Dof%2DLife23.html" shape="rect"/>
- <area alt="Click Shadow for Decomp Diagram " coords="1348, 936, 1588, 947" href="dgmTreat%5FEV%5FBatteries%5Fat%5FEnd%2Dof%2DLife23.html" shape="rect"/>
+ <area alt="Click Activity Box for Description" coords="473, 260, 646, 395" href="actuseTest%5FThermal%5FBehavior1345.html" shape="rect"/>
+ <area alt="Click Shadow for Decomp Diagram " coords="646, 267, 657, 402" href="dgmTreat%5FEV%5FBatteries%5Fat%5FEnd%2Dof%2DLife23.html" shape="rect"/>
+ <area alt="Click Shadow for Decomp Diagram " coords="480, 395, 653, 406" href="dgmTreat%5FEV%5FBatteries%5Fat%5FEnd%2Dof%2DLife23.html" shape="rect"/>
+ <area alt="Click Activity Box for Description" coords="775, 430, 948, 571" href="actuseTest%5FBattery%5FManagement%5FSystem1353.html" shape="rect"/>
+ <area alt="Click Shadow for Decomp Diagram " coords="948, 437, 959, 578" href="dgmTreat%5FEV%5FBatteries%5Fat%5FEnd%2Dof%2DLife23.html" shape="rect"/>
+ <area alt="Click Shadow for Decomp Diagram " coords="782, 571, 955, 582" href="dgmTreat%5FEV%5FBatteries%5Fat%5FEnd%2Dof%2DLife23.html" shape="rect"/>
+ <area alt="Click Activity Box for Description" coords="1078, 606, 1270, 756" href="actuseEvaluate%5FSafety%5Fand%5FCompliance1360.html" shape="rect"/>
+ <area alt="Click Shadow for Decomp Diagram " coords="1270, 613, 1281, 763" href="dgmTreat%5FEV%5FBatteries%5Fat%5FEnd%2Dof%2DLife23.html" shape="rect"/>
+ <area alt="Click Shadow for Decomp Diagram " coords="1085, 756, 1277, 767" href="dgmTreat%5FEV%5FBatteries%5Fat%5FEnd%2Dof%2DLife23.html" shape="rect"/>
 </map>
 <br/>
 <p class="description-info" id="description">

diff --git a/evb/evb/dgmA3323COLON_Treat_Gas_for_Pyrometallurgy1162.html b/evb/evb/dgmA3323COLON_Treat_Gas_for_Pyrometallurgy1162.html
@@ -23,15 +23,15 @@ layout: default
  <img alt="" border="0" src="images/dgm1162.jpeg" usemap="#sitemap"/>
 </div>
 <map name="sitemap">
- <area alt="Click Activity Box for Description" coords="209, 187, 425, 356" href="actuseFilter%5FGas1168.html" shape="rect"/>
- <area alt="Click Shadow for Decomp Diagram " coords="425, 194, 436, 363" href="dgmTreat%5FEV%5FBatteries%5Fat%5FEnd%2Dof%2DLife23.html" shape="rect"/>
- <area alt="Click Shadow for Decomp Diagram " coords="216, 356, 432, 367" href="dgmTreat%5FEV%5FBatteries%5Fat%5FEnd%2Dof%2DLife23.html" shape="rect"/>
- <area alt="Click Activity Box for Description" coords="641, 399, 857, 568" href="actuseLeach,%5FGas%5FTreatment1172.html" shape="rect"/>
- <area alt="Click Shadow for Decomp Diagram " coords="857, 406, 868, 575" href="dgmTreat%5FEV%5FBatteries%5Fat%5FEnd%2Dof%2DLife23.html" shape="rect"/>
- <area alt="Click Shadow for Decomp Diagram " coords="648, 568, 864, 579" href="dgmTreat%5FEV%5FBatteries%5Fat%5FEnd%2Dof%2DLife23.html" shape="rect"/>
- <area alt="Click Activity Box for Description" coords="1019, 611, 1259, 799" href="actusePrecipitate,%5FGas%5FTreatment1176.html" shape="rect"/>
- <area alt="Click Shadow for Decomp Diagram " coords="1259, 618, 1270, 806" href="dgmTreat%5FEV%5FBatteries%5Fat%5FEnd%2Dof%2DLife23.html" shape="rect"/>
- <area alt="Click Shadow for Decomp Diagram " coords="1026, 799, 1266, 810" href="dgmTreat%5FEV%5FBatteries%5Fat%5FEnd%2Dof%2DLife23.html" shape="rect"/>
+ <area alt="Click Activity Box for Description" coords="171, 154, 344, 289" href="actuseFilter%5FGas1168.html" shape="rect"/>
+ <area alt="Click Shadow for Decomp Diagram " coords="344, 161, 355, 296" href="dgmTreat%5FEV%5FBatteries%5Fat%5FEnd%2Dof%2DLife23.html" shape="rect"/>
+ <area alt="Click Shadow for Decomp Diagram " coords="178, 289, 351, 300" href="dgmTreat%5FEV%5FBatteries%5Fat%5FEnd%2Dof%2DLife23.html" shape="rect"/>
+ <area alt="Click Activity Box for Description" coords="517, 324, 689, 459" href="actuseLeach,%5FGas%5FTreatment1172.html" shape="rect"/>
+ <area alt="Click Shadow for Decomp Diagram " coords="689, 331, 700, 466" href="dgmTreat%5FEV%5FBatteries%5Fat%5FEnd%2Dof%2DLife23.html" shape="rect"/>
+ <area alt="Click Shadow for Decomp Diagram " coords="524, 459, 696, 470" href="dgmTreat%5FEV%5FBatteries%5Fat%5FEnd%2Dof%2DLife23.html" shape="rect"/>
+ <area alt="Click Activity Box for Description" coords="819, 494, 1012, 645" href="actusePrecipitate,%5FGas%5FTreatment1176.html" shape="rect"/>
+ <area alt="Click Shadow for Decomp Diagram " coords="1012, 501, 1023, 652" href="dgmTreat%5FEV%5FBatteries%5Fat%5FEnd%2Dof%2DLife23.html" shape="rect"/>
+ <area alt="Click Shadow for Decomp Diagram " coords="826, 645, 1019, 656" href="dgmTreat%5FEV%5FBatteries%5Fat%5FEnd%2Dof%2DLife23.html" shape="rect"/>
 </map>
 <br/>
 <p class="description-info" id="description">

diff --git a/evb/evb/dgmA32COLON_Remanufacture206.html b/evb/evb/dgmA32COLON_Remanufacture206.html
@@ -23,15 +23,15 @@ layout: default
  <img alt="" border="0" src="images/dgm206.jpeg" usemap="#sitemap"/>
 </div>
 <map name="sitemap">
- <area alt="Click Activity Box for Description" coords="796, 492, 1057, 696" href="actusePrepare%5FBattery%5Ffor%5FRemanufacturing224.html" shape="rect"/>
- <area alt="Click Shadow for Decomp Diagram " coords="1057, 499, 1068, 703" href="dgmA321COLON%5FPrepare%5FBattery%5Ffor%5FRemanufacturing243.html" shape="rect"/>
- <area alt="Click Shadow for Decomp Diagram " coords="803, 696, 1064, 707" href="dgmA321COLON%5FPrepare%5FBattery%5Ffor%5FRemanufacturing243.html" shape="rect"/>
- <area alt="Click Activity Box for Description" coords="1219, 739, 1461, 958" href="actuseRemanufacture%5FBattery228.html" shape="rect"/>
- <area alt="Click Shadow for Decomp Diagram " coords="1461, 746, 1472, 965" href="dgmA322COLON%5FRemanufacture%5FBattery265.html" shape="rect"/>
- <area alt="Click Shadow for Decomp Diagram " coords="1226, 958, 1468, 969" href="dgmA322COLON%5FRemanufacture%5FBattery265.html" shape="rect"/>
- <area alt="Click Activity Box for Description" coords="1623, 1001, 1842, 1172" href="actuseInstall%5FBattery232.html" shape="rect"/>
- <area alt="Click Shadow for Decomp Diagram " coords="1842, 1008, 1853, 1179" href="dgmA323COLON%5FInstall%5FBattery718.html" shape="rect"/>
- <area alt="Click Shadow for Decomp Diagram " coords="1630, 1172, 1849, 1183" href="dgmA323COLON%5FInstall%5FBattery718.html" shape="rect"/>
+ <area alt="Click Activity Box for Description" coords="641, 399, 850, 563" href="actusePrepare%5FBattery%5Ffor%5FRemanufacturing224.html" shape="rect"/>
+ <area alt="Click Shadow for Decomp Diagram " coords="850, 406, 861, 570" href="dgmA321COLON%5FPrepare%5FBattery%5Ffor%5FRemanufacturing243.html" shape="rect"/>
+ <area alt="Click Shadow for Decomp Diagram " coords="648, 563, 857, 574" href="dgmA321COLON%5FPrepare%5FBattery%5Ffor%5FRemanufacturing243.html" shape="rect"/>
+ <area alt="Click Activity Box for Description" coords="980, 598, 1173, 774" href="actuseRemanufacture%5FBattery228.html" shape="rect"/>
+ <area alt="Click Shadow for Decomp Diagram " coords="1173, 605, 1184, 781" href="dgmA322COLON%5FRemanufacture%5FBattery265.html" shape="rect"/>
+ <area alt="Click Shadow for Decomp Diagram " coords="987, 774, 1180, 785" href="dgmA322COLON%5FRemanufacture%5FBattery265.html" shape="rect"/>
+ <area alt="Click Activity Box for Description" coords="1302, 809, 1478, 946" href="actuseInstall%5FBattery232.html" shape="rect"/>
+ <area alt="Click Shadow for Decomp Diagram " coords="1478, 816, 1489, 953" href="dgmA323COLON%5FInstall%5FBattery718.html" shape="rect"/>
+ <area alt="Click Shadow for Decomp Diagram " coords="1309, 946, 1485, 957" href="dgmA323COLON%5FInstall%5FBattery718.html" shape="rect"/>
 </map>
 <br/>
 <p class="description-info" id="description">

diff --git a/evb/evb/dgmA3COLON_Recover_MaterialsSLASHDevices144.html b/evb/evb/dgmA3COLON_Recover_MaterialsSLASHDevices144.html
@@ -23,15 +23,15 @@ layout: default
  <img alt="" border="0" src="images/dgm144.jpeg" usemap="#sitemap"/>
 </div>
 <map name="sitemap">
- <area alt="Click Activity Box for Description" coords="872, 449, 1163, 677" href="actuseRepurpose165.html" shape="rect"/>
- <area alt="Click Shadow for Decomp Diagram " coords="1163, 456, 1174, 684" href="dgmA31COLON%5FRepurpose991.html" shape="rect"/>
- <area alt="Click Shadow for Decomp Diagram " coords="879, 677, 1170, 688" href="dgmA31COLON%5FRepurpose991.html" shape="rect"/>
- <area alt="Click Activity Box for Description" coords="1261, 716, 1552, 944" href="actuseRemanufacture169.html" shape="rect"/>
- <area alt="Click Shadow for Decomp Diagram " coords="1552, 723, 1563, 951" href="dgmA32COLON%5FRemanufacture206.html" shape="rect"/>
- <area alt="Click Shadow for Decomp Diagram " coords="1268, 944, 1559, 955" href="dgmA32COLON%5FRemanufacture206.html" shape="rect"/>
- <area alt="Click Activity Box for Description" coords="1795, 983, 2167, 1461" href="actuseRecycle173.html" shape="rect"/>
- <area alt="Click Shadow for Decomp Diagram " coords="2167, 990, 2178, 1468" href="dgmA33COLON%5FRecycle824.html" shape="rect"/>
- <area alt="Click Shadow for Decomp Diagram " coords="1802, 1461, 2174, 1472" href="dgmA33COLON%5FRecycle824.html" shape="rect"/>
+ <area alt="Click Activity Box for Description" coords="777, 401, 1036, 604" href="actuseRepurpose165.html" shape="rect"/>
+ <area alt="Click Shadow for Decomp Diagram " coords="1036, 408, 1047, 611" href="dgmA31COLON%5FRepurpose991.html" shape="rect"/>
+ <area alt="Click Shadow for Decomp Diagram " coords="784, 604, 1043, 615" href="dgmA31COLON%5FRepurpose991.html" shape="rect"/>
+ <area alt="Click Activity Box for Description" coords="1122, 639, 1381, 841" href="actuseRemanufacture169.html" shape="rect"/>
+ <area alt="Click Shadow for Decomp Diagram " coords="1381, 646, 1392, 848" href="dgmA32COLON%5FRemanufacture206.html" shape="rect"/>
+ <area alt="Click Shadow for Decomp Diagram " coords="1129, 841, 1388, 852" href="dgmA32COLON%5FRemanufacture206.html" shape="rect"/>
+ <area alt="Click Activity Box for Description" coords="1597, 876, 1927, 1300" href="actuseRecycle173.html" shape="rect"/>
+ <area alt="Click Shadow for Decomp Diagram " coords="1927, 883, 1938, 1307" href="dgmA33COLON%5FRecycle824.html" shape="rect"/>
+ <area alt="Click Shadow for Decomp Diagram " coords="1604, 1300, 1934, 1311" href="dgmA33COLON%5FRecycle824.html" shape="rect"/>
 </map>
 <br/>
 <p class="description-info" id="description">

diff --git a/evb/evb/dgmA333COLON_Hydrometallurgy1184.html b/evb/evb/dgmA333COLON_Hydrometallurgy1184.html
@@ -32,9 +32,9 @@ layout: default
  <area alt="Click Activity Box for Description" coords="1369, 753, 1542, 894" href="actuseScrub1232.html" shape="rect"/>
  <area alt="Click Shadow for Decomp Diagram " coords="1542, 760, 1553, 901" href="dgmTreat%5FEV%5FBatteries%5Fat%5FEnd%2Dof%2DLife23.html" shape="rect"/>
  <area alt="Click Shadow for Decomp Diagram " coords="1376, 894, 1549, 905" href="dgmTreat%5FEV%5FBatteries%5Fat%5FEnd%2Dof%2DLife23.html" shape="rect"/>
- <area alt="Click Activity Box for Description" coords="1715, 965, 1888, 1100" href="actuseStrip1236.html" shape="rect"/>
- <area alt="Click Shadow for Decomp Diagram " coords="1888, 972, 1899, 1107" href="dgmTreat%5FEV%5FBatteries%5Fat%5FEnd%2Dof%2DLife23.html" shape="rect"/>
- <area alt="Click Shadow for Decomp Diagram " coords="1722, 1100, 1895, 1111" href="dgmTreat%5FEV%5FBatteries%5Fat%5FEnd%2Dof%2DLife23.html" shape="rect"/>
+ <area alt="Click Activity Box for Description" coords="1714, 965, 1887, 1100" href="actuseStrip1236.html" shape="rect"/>
+ <area alt="Click Shadow for Decomp Diagram " coords="1887, 972, 1898, 1107" href="dgmTreat%5FEV%5FBatteries%5Fat%5FEnd%2Dof%2DLife23.html" shape="rect"/>
+ <area alt="Click Shadow for Decomp Diagram " coords="1721, 1100, 1894, 1111" href="dgmTreat%5FEV%5FBatteries%5Fat%5FEnd%2Dof%2DLife23.html" shape="rect"/>
  <area alt="Click Activity Box for Description" coords="2017, 1134, 2329, 1378" href="actusePrecipitateSLASHElectrowinning1240.html" shape="rect"/>
  <area alt="Click Shadow for Decomp Diagram " coords="2329, 1141, 2340, 1385" href="dgmTreat%5FEV%5FBatteries%5Fat%5FEnd%2Dof%2DLife23.html" shape="rect"/>
  <area alt="Click Shadow for Decomp Diagram " coords="2024, 1378, 2336, 1389" href="dgmTreat%5FEV%5FBatteries%5Fat%5FEnd%2Dof%2DLife23.html" shape="rect"/>
